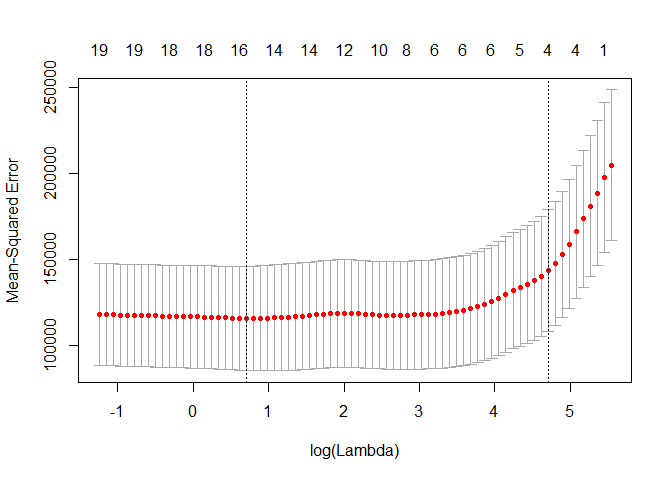
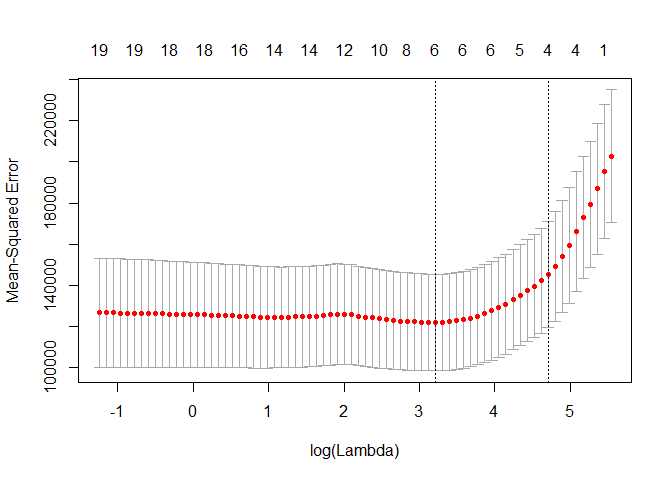
Included the modified . md and .html to refelect three types of feature selection methods

diff --git a/Machine Learning/Features Selection in Linear Models/lasso_for_linear_models_feature_selection.html b/Machine Learning/Features Selection in Linear Models/lasso_for_linear_models_feature_selection.html
@@ -228,6 +228,12 @@ div.tocify {
 </div>
 <div id="introduction" class="section level1">
 <h1>Introduction</h1>
+<p>There are three types of feature selection methods in general:</p>
+<ol style="list-style-type: decimal">
+<li><p>Filter Methods : filter methods are generally used as a preprocessing step. The selection of features is independent of any machine learning algorithm. Instead the features are selected on the basis of their scores in various statistical tests for their correlation with the outcome variable. Some common filter methods are Correlation metrics (Pearson, Spearman, Distance), Chi-Squared test, Anova, Fisher’s Score etc.</p></li>
+<li><p>Wrapper Methods : in wrapper methods, you try to use a subset of features and train a model using them. Based on the inferences that you draw from the previous model, you decide to add or remove features from the subset. Forward Selection, Backward elimination are some of the examples for wrapper methods.</p></li>
+<li><p>Embedded Methods : these are the algorithms that have their own built-in feature selection methods. LASSO regression is one such example.</p></li>
+</ol>
 <p>The lasso does:</p>
 <ul>
 <li>Coefficient shrinkage and</li>
@@ -423,7 +429,7 @@ summary(cv.lasso)</code></pre>
 <p>Lets plot our cross-validated lasso model. We will plot mse against log lamda in order to see the distribution of the mean squared error with change in lamda.</p>
 <pre class="r"><code>#plotting the mse against log lamda
 plot(cv.lasso)</code></pre>
[2 lines of base64/hex data omitted]
 </div>
 <div id="extracting-the-selected-featurescoefficients" class="section level2">
 <h2>Extracting the selected features(coefficients)</h2>
@@ -433,28 +439,28 @@ plot(cv.lasso)</code></pre>
 <pre class="r"><code># returns the coefficient vector corresponding to the best model.
 coef(cv.lasso, s = &quot;lambda.min&quot;)</code></pre>
 <pre><code>## 21 x 1 sparse Matrix of class &quot;dgCMatrix&quot;
-##                         1
-## (Intercept)  1.728979e+02
-## AtBat       -1.734125e+00
-## Hits         6.059861e+00
-## HmRun        1.708102e-01
-## Runs         .           
-## RBI          .           
-## Walks        5.053826e+00
-## Years       -1.061379e+01
-## CAtBat      -2.483638e-05
-## CHits        .           
-## CHmRun       5.721414e-01
-## CRuns        7.218106e-01
-## CRBI         3.856339e-01
-## CWalks      -6.033666e-01
-## LeagueA     -3.339735e+01
-## LeagueN      4.055705e-12
-## DivisionW   -1.193924e+02
-## PutOuts      2.772560e-01
-## Assists      2.104828e-01
-## Errors      -2.371468e+00
-## NewLeagueN   .</code></pre>
+##                       1
+## (Intercept)  37.2911545
+## AtBat         .        
+## Hits          1.7977038
+## HmRun         .        
+## Runs          .        
+## RBI           .        
+## Walks         2.1209558
+## Years         .        
+## CAtBat        .        
+## CHits         .        
+## CHmRun        .        
+## CRuns         0.2002533
+## CRBI          0.4006813
+## CWalks        .        
+## LeagueA       .        
+## LeagueN       .        
+## DivisionW   -88.7202470
+## PutOuts       0.1997332
+## Assists       .        
+## Errors        .        
+## NewLeagueN    .</code></pre>
 <pre class="r"><code># returns the coefficient vector corresponding to the model whose error is no more than one standard error above the error of the best model.
 coef(cv.lasso, s = &quot;lambda.1se&quot;)</code></pre>
 <pre><code>## 21 x 1 sparse Matrix of class &quot;dgCMatrix&quot;
@@ -510,12 +516,11 @@ coef(cv.lasso)</code></pre>
 </div>
 <div id="conclusion" class="section level1">
 <h1>Conclusion</h1>
-<p>The lasso is a very good algorithm for selecting the best features from a data set with many features. These best features can be used to fit other linear models or the lasso itself for best perfomance. NB: With the lasso:</p>
+<p>The lasso is a very good algorithm for selecting the best features from a data set with many features. These best features can be used to fit other linear models. In the case of lasso:</p>
 <ol style="list-style-type: decimal">
 <li><p>One can fit the model with glmnet plus all the features but use the chosen lamda.1se which will automatically shrink the coefficients of the un important features, hence automatic feature selection.</p></li>
 <li><p>One can use cv.glmnet directly with all the features, lamda and features are selected automatically. This is the preferred option.</p></li>
 </ol>
-<p>The next post will be about feature selection for non-linear data.</p>
 </div>
 
 

diff --git a/Machine Learning/Features Selection in Linear Models/lasso_for_linear_models_feature_selection.md b/Machine Learning/Features Selection in Linear Models/lasso_for_linear_models_feature_selection.md
@@ -16,6 +16,13 @@ output:
 # .
 
 # Introduction
+There are three types of feature selection methods in general:
+
+1. Filter Methods : filter methods are generally used as a preprocessing step. The selection of features is independent of any machine learning algorithm. Instead the features are selected on the basis of their scores in various statistical tests for their correlation with the outcome variable. Some common filter methods are Correlation metrics (Pearson, Spearman, Distance), Chi-Squared test, Anova, Fisher's Score etc.
+
+2. Wrapper Methods : in wrapper methods, you try to use a subset of features and train a model using them. Based on the inferences that you draw from the previous model, you decide to add or remove features from the subset. Forward Selection, Backward elimination are some of the examples for wrapper methods.
+
+3. Embedded Methods : these are the algorithms that have their own built-in feature selection methods. LASSO regression is one such example.
 
 The lasso does:
 
@@ -340,28 +347,28 @@ coef(cv.lasso, s = "lambda.min")
 
 ```
 ## 21 x 1 sparse Matrix of class "dgCMatrix"
-##                         1
-## (Intercept)  1.728979e+02
-## AtBat       -1.734125e+00
-## Hits         6.059861e+00
-## HmRun        1.708102e-01
-## Runs         .           
-## RBI          .           
-## Walks        5.053826e+00
-## Years       -1.061379e+01
-## CAtBat      -2.483638e-05
-## CHits        .           
-## CHmRun       5.721414e-01
-## CRuns        7.218106e-01
-## CRBI         3.856339e-01
-## CWalks      -6.033666e-01
-## LeagueA     -3.339735e+01
-## LeagueN      4.055705e-12
-## DivisionW   -1.193924e+02
-## PutOuts      2.772560e-01
-## Assists      2.104828e-01
-## Errors      -2.371468e+00
-## NewLeagueN   .
+##                       1
+## (Intercept)  37.2911545
+## AtBat         .        
+## Hits          1.7977038
+## HmRun         .        
+## Runs          .        
+## RBI           .        
+## Walks         2.1209558
+## Years         .        
+## CAtBat        .        
+## CHits         .        
+## CHmRun        .        
+## CRuns         0.2002533
+## CRBI          0.4006813
+## CWalks        .        
+## LeagueA       .        
+## LeagueN       .        
+## DivisionW   -88.7202470
+## PutOuts       0.1997332
+## Assists       .        
+## Errors        .        
+## NewLeagueN    .
 ```
 
 ```r
@@ -430,10 +437,8 @@ The output above has 6 non-zero coefficients which shows that the function has c
 
 # Conclusion
 
-The lasso is a very good algorithm for selecting the best features from a data set with many features. These best features can be used to fit other linear models or the lasso itself for best perfomance. NB: With the lasso:
+The lasso is a very good algorithm for selecting the best features from a data set with many features. These best features can be used to fit other linear models. In the case of lasso:
 
 1. One can fit the model with glmnet plus all the features but use the chosen lamda.1se which will automatically shrink the coefficients of the un important features, hence automatic feature selection.
 
 2. One can use cv.glmnet directly with all the features, lamda and features are selected automatically. This is the preferred option.
-
-The next post will be about feature selection for non-linear data.
